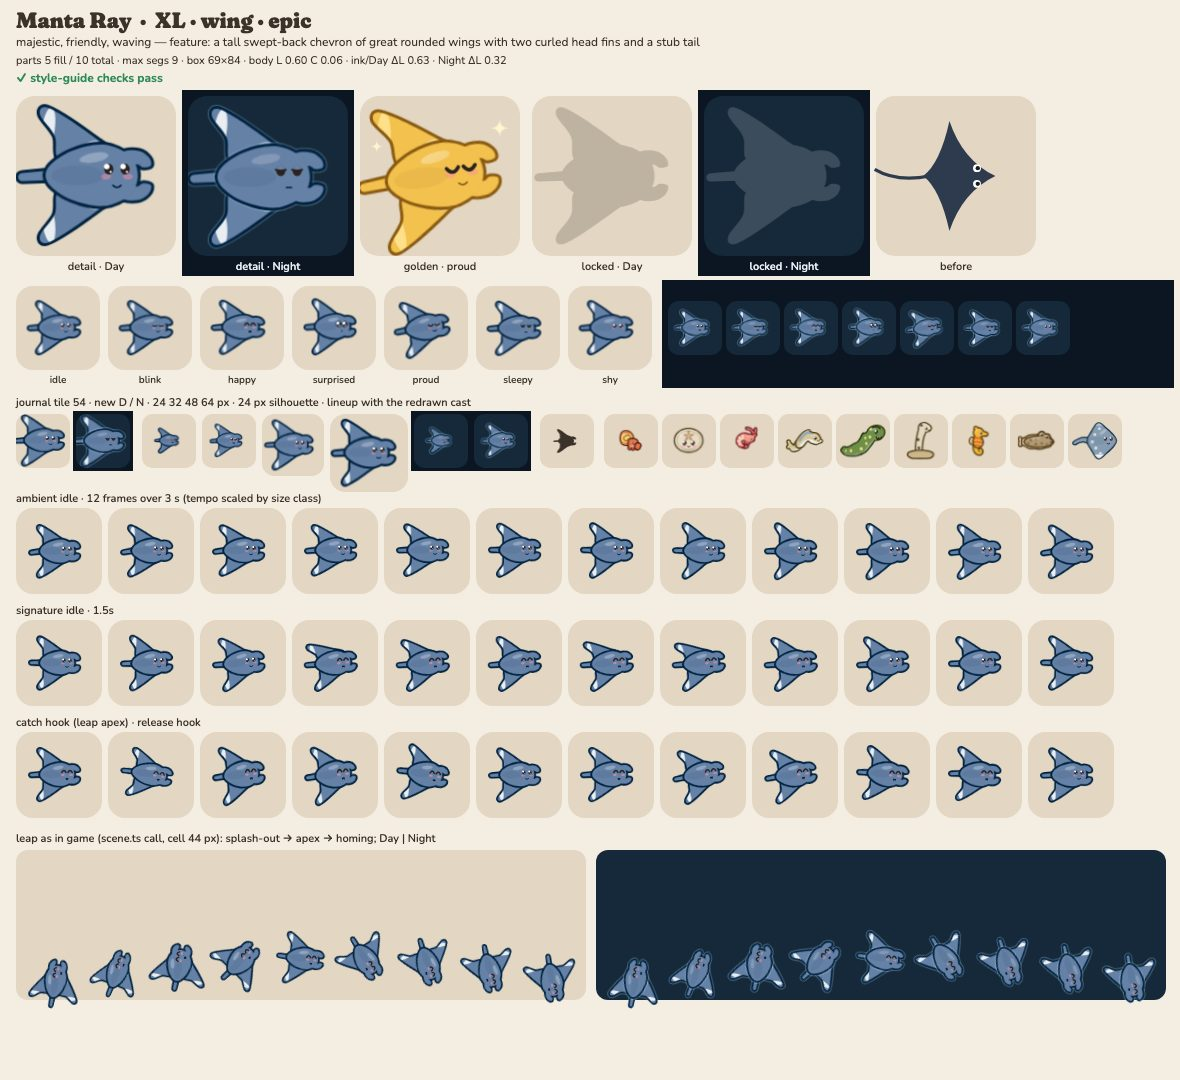
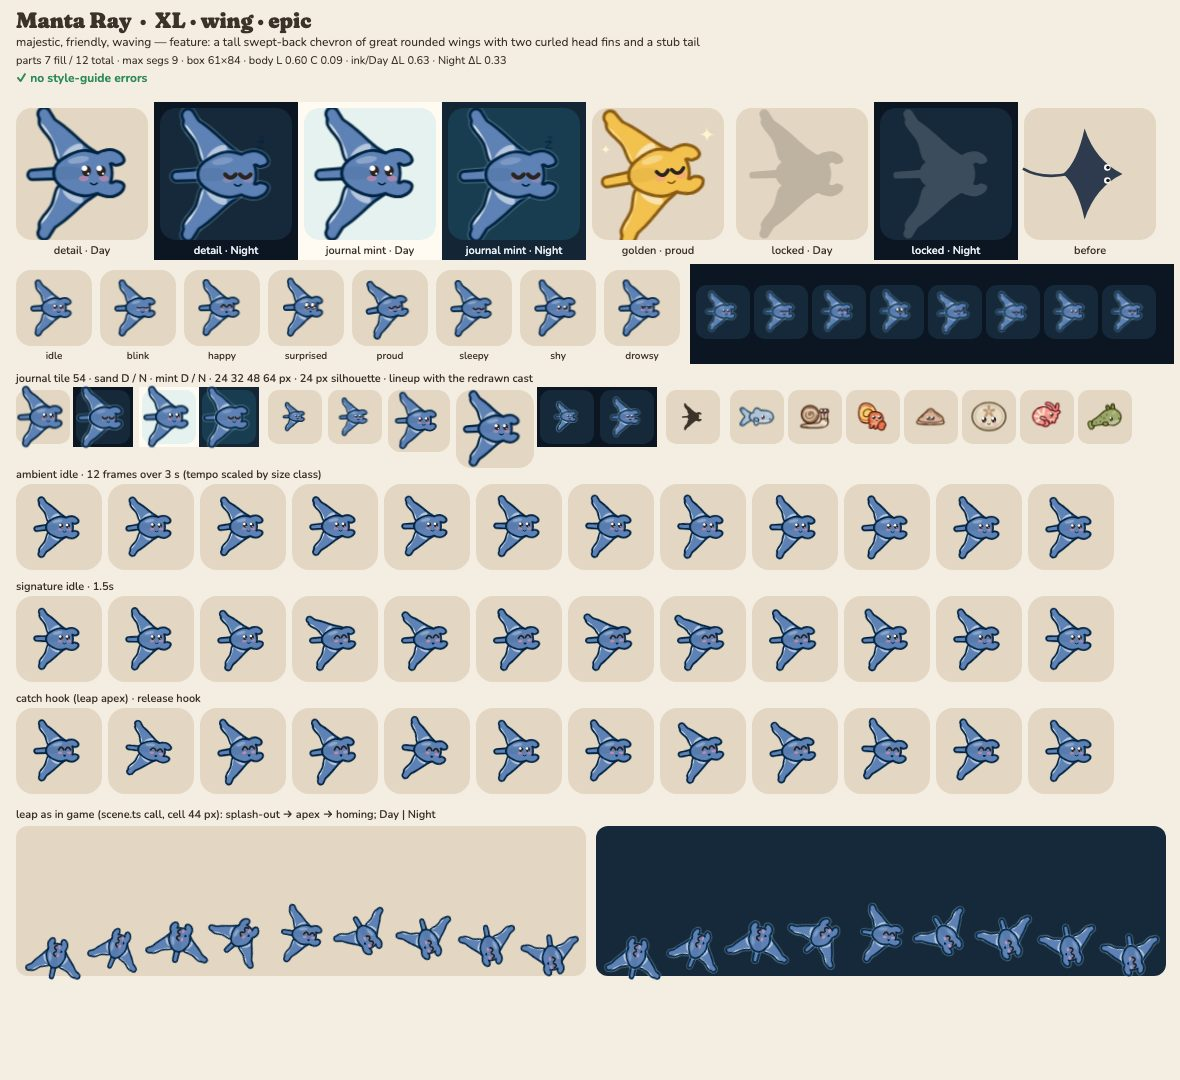
render: manta B fixes — 1.6x wingspan, two horns, frame-breaking tips (ADR 0011)
CRITIQUE-1 B. Body shortened so the 84 u span is ~1.65x the body; round head with two forward cephalic horns curling in; wingtips break the XL frame by 2.3 px (extra caps); slate #5E82B5 (C 0.09, Night delta 0.33) with white belly on the trailing edges and shoulder patches; eye 8 u. Lint clean.

diff --git a/src/render/art/species/manta.ts b/src/render/art/species/manta.ts
@@ -8,36 +8,36 @@
 import { blob, capsule, defineArt, ellipse, join, tube, xform } from '../kit.ts';
 
 const wingU = blob([
-  [26, -9],
-  [10, -22],
-  [-10, -36],
-  [-22, -42],
-  [-25, -37],
-  [-16, -24],
-  [-14, -10],
-  [0, -6],
+  [22, -9],
+  [8, -21],
+  [-8, -35],
+  [-20, -42],
+  [-24, -37],
+  [-15, -24],
+  [-10, -10],
+  [2, -6],
 ]);
 const wingL = xform(wingU, { sy: -1 });
 // a broad rounded diamond body the wings flow out of (not a sausage)
 const torso = blob([
-  [35, 0],
-  [30, -12],
-  [14, -19],
-  [-6, -15],
-  [-20, -5],
-  [-20, 5],
-  [-6, 15],
-  [14, 19],
-  [30, 12],
+  [28, 0],
+  [24, -11],
+  [10, -16],
+  [-2, -13],
+  [-12, -5],
+  [-12, 5],
+  [-2, 13],
+  [10, 16],
+  [24, 11],
 ]);
-// cephalic lobes: two short horns pointing forward, curling in at the tips
+// cephalic lobes: two clear horns pointing forward and curling inward at the tips
 const lobe = tube([
-  [27, -10, 4.8],
-  [35, -11, 4.2],
-  [40, -8, 3.6],
+  [20, -9.5, 4.8],
+  [28, -12.5, 4.2],
+  [33.5, -10.5, 3.6],
 ]);
 const lobes = join(lobe, xform(lobe, { sy: -1 }));
-const tail = capsule(-20, 0, 3, -36, 1, 2.5);
+const tail = capsule(-11, 0, 3, -30, 1, 2.5);
 
 export default defineArt({
   id: 'manta',
@@ -45,25 +45,28 @@ export default defineArt({
   size: 'XL',
   feature: 'a tall swept-back chevron of great rounded wings with two curled head fins and a stub tail',
   personality: ['majestic', 'friendly', 'waving'],
-  palette: { body: '#6681A6', belly: '#E8EEF2' },
+  palette: { body: '#5E82B5', belly: '#E8EEF2' },
   groups: [
-    { id: 'tail', pivot: [-20, 0], parts: [{ d: tail, role: 'body', extra: true }] },
+    { id: 'tail', pivot: [-11, 0], parts: [{ d: tail, role: 'body', extra: true }] },
     {
       id: 'wingU',
-      pivot: [4, -8],
+      pivot: [2, -8],
       parts: [
         { d: wingU, role: 'body' },
-        { d: ellipse(-20, -28, 4, 14, 8), role: 'belly', kind: 'pattern' },
-        { d: ellipse(4, -15, 9, 4, -36), role: 'white', kind: 'pattern', alpha: 0.55 },
+        // R28: the wingtip breaks the tile frame by ~3 px (extra: outside the body box)
+        { d: capsule(-17, -35, 4.8, -21.5, -44.4, 3.6), role: 'body', extra: true },
+        { d: ellipse(-18, -23.4, 3.6, 16, -27), role: 'belly', kind: 'pattern' },
+        { d: ellipse(0, -16, 9, 4, -36), role: 'white', kind: 'pattern', alpha: 0.55 },
       ],
     },
     {
       id: 'wingL',
-      pivot: [4, 8],
+      pivot: [2, 8],
       parts: [
         { d: wingL, role: 'body' },
-        { d: ellipse(-20, 28, 4, 14, -8), role: 'belly', kind: 'pattern' },
-        { d: ellipse(4, 15, 9, 4, 36), role: 'white', kind: 'pattern', alpha: 0.55 },
+        { d: capsule(-17, 35, 4.8, -21.5, 44.4, 3.6), role: 'body', extra: true },
+        { d: ellipse(-18, 23.4, 3.6, 16, 27), role: 'belly', kind: 'pattern' },
+        { d: ellipse(0, 16, 9, 4, 36), role: 'white', kind: 'pattern', alpha: 0.55 },
       ],
     },
     {
@@ -71,20 +74,20 @@ export default defineArt({
       parts: [
         { d: lobes, role: 'body' },
         { d: torso, role: 'body' },
-        { d: ellipse(-2, 0, 16, 6), role: 'ink', kind: 'pattern', alpha: 0.08 },
+        { d: ellipse(-4, 0, 12, 5), role: 'ink', kind: 'pattern', alpha: 0.08 },
       ],
     },
   ],
-  shine: ellipse(8, -11, 9, 3, -10),
+  shine: ellipse(4, -10, 8, 2.6, -10),
   face: {
     eyes: [
-      [17, -4],
-      [27, -4],
+      [10, -2],
+      [21, -2],
     ],
-    eye: 6.6,
+    eye: 8,
     front: true,
-    zone: [8, -20, 30, 28],
-    mouth: { at: [22, 6], w: 5, shape: 'smile' },
+    zone: [1, -21, 30, 33],
+    mouth: { at: [15.5, 7], w: 5, shape: 'smile' },
     sweet: true,
   },
   idle: {
